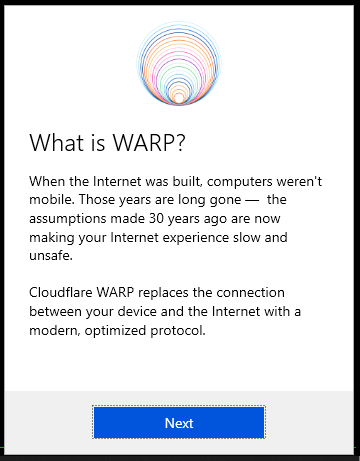
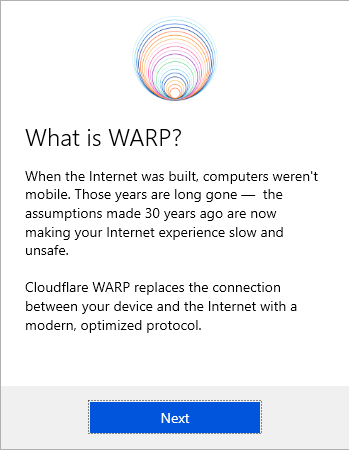
Updates for PR 5
Not sure the language.md changes -- Reverted.
Removed Duplicate image.
Resized image 3 and 4 to be the same.
Removed border from image 3 and 4.
Removed border from gif.

diff --git a/languages.md b/languages.md
@@ -14,7 +14,7 @@ layout:
 
 # 💬 Languages
 
-<table data-view="cards"><thead><tr><th align="center"></th><th data-hidden data-card-target data-type="content-ref"></th><th data-hidden data-card-cover data-type="files"></th></tr></thead><tbody><tr><td align="center">English</td><td><a href="./">.</a></td><td><a href=".gitbook/assets/flags-38754_640.png">flags-38754_640.png</a></td></tr><tr><td align="center">Russian - Русский</td><td><a href="http://127.0.0.1:5000/o/GqJLJ9NWTR15VqVFOOgM/s/ch5a0qX1gaRruCe1aMOT/">Russian</a></td><td><a href=".gitbook/assets/Flag_of_Russia.svg.png">Flag_of_Russia.svg.png</a></td></tr></tbody></table>
+<table data-view="cards"><thead><tr><th align="center"></th><th data-hidden data-card-target data-type="content-ref"></th><th data-hidden data-card-cover data-type="files"></th></tr></thead><tbody><tr><td align="center">English</td><td><a href="./">.</a></td><td><a href=".gitbook/assets/flags-38754_640.png">flags-38754_640.png</a></td></tr><tr><td align="center">Russian - Русский</td><td><a href="http://127.0.0.1:5000/s/ch5a0qX1gaRruCe1aMOT/">BattleBit - Документация по устранению ошибок</a></td><td><a href=".gitbook/assets/Flag_of_Russia.svg.png">Flag_of_Russia.svg.png</a></td></tr></tbody></table>
 
 ## Soon to come
 
